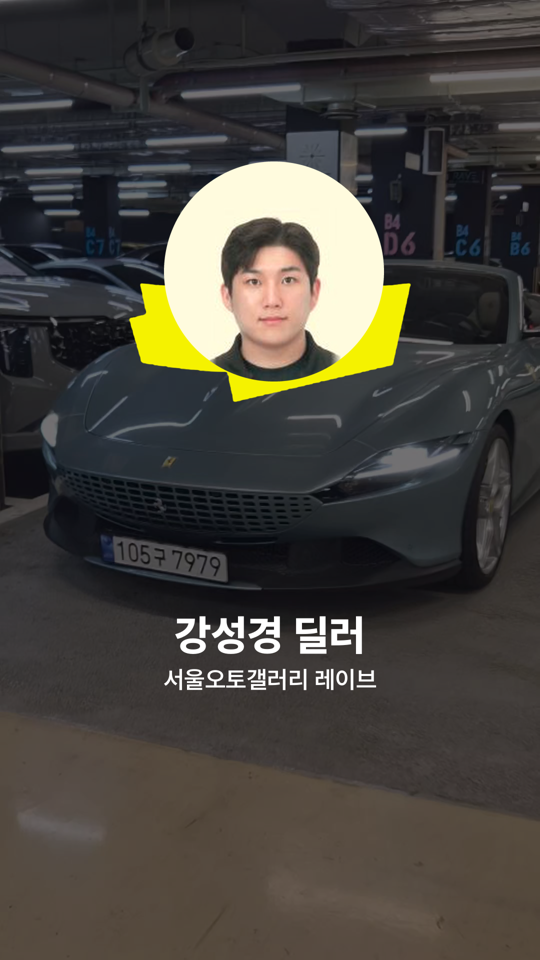
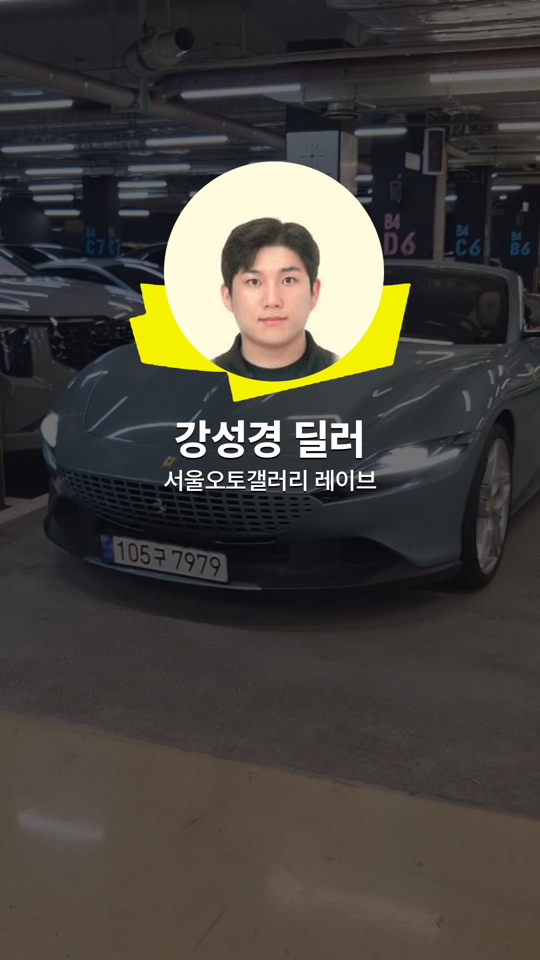
브러시 프레임 끝 화면: 이름·소속을 배지 바로 아래 한 묶음으로(번호판 피함)
Claude-Session: https://claude.ai/code/session_01AMh7xoXiuzDvjCLxYCuX6F

Changed region(s): [[0.2963, 0.625, 0.7111, 0.7188], [0.2963, 0.4375, 0.7111, 0.5312]]

diff --git a/scripts/shortform/brush_frame_portrait.py b/scripts/shortform/brush_frame_portrait.py
@@ -27,7 +27,9 @@ FONT = os.path.join(HERE, 'fonts')
 YEL, DISC, INK = (0xF5, 0xF2, 0x00), (0xED, 0xEF, 0xF2), (0x22, 0x22, 0x22)
 W, H, FPS = 1080, 1920, 30
 TOP = 300  # 배지 윗선. 원본 영상 번호판(로마 y 1080~1160)을 칠이 덮지 않는 자리 — 차가 바뀌면 번호판 위치를 보고 정함
-NAME_Y = 1220  # 이름 줄 윗선 — 번호판 아래(이름·소속도 번호판을 덮지 않음)
+NAME_Y = 1220  # 배지 바로 아래에 이름이 들어가지 않을 때만 쓰는 자리 — 번호판 아래
+PLATE_TOP = 1080  # 원본 영상 번호판 윗선(로마). 이름·소속 글자 아래 끝이 이 위 24px 안에 들어오면 배지 바로 아래에 붙임
+GAP_BADGE, GAP_LINE = 36, 22  # 배지 보이는 아래 끝 → 이름 글자 윗선, 이름 글자 아래 끝 → 소속 글자 윗선
 
 
 ORIG = os.path.join(REPO, 'public', 'assets', 'shortform', 'brush-frame-portrait', 'as24_0701_brush_frame_portrait.png')
@@ -128,6 +130,11 @@ def pop(t):  # 0→1.08→1
     return 1.08 * ease(t / 0.7) if t < 0.7 else 1.08 - 0.08 * ease((t - 0.7) / 0.3)
 
 
+@functools.lru_cache(maxsize=8)
+def _badge_bottom(photo, face):
+    return badge(photo, face=face).getbbox()[3]
+
+
 def card(photo, name, org, bg_img, t, face=0.86):
     f = bg_img.copy()
     f = Image.blend(f, Image.new('RGB', f.size, (0, 0, 0)), 0.55).convert('RGBA')
@@ -138,10 +145,19 @@ def card(photo, name, org, bg_img, t, face=0.86):
         dr = ImageDraw.Draw(f)
         f1 = ImageFont.truetype(os.path.join(FONT, 'Pretendard-ExtraBold.otf'), 84)
         f2 = ImageFont.truetype(os.path.join(FONT, 'Pretendard-SemiBold.otf'), 48)
-        y = max(TOP + b.height + 10, NAME_Y) + round(30 * (1 - k)); al = round(255 * k)
-        for txt, fnt, yy in ((name, f1, y), (org, f2, y + 110)):
-            tw = dr.textlength(txt, font=fnt)
-            dr.text(((W - tw) / 2, yy), txt, font=fnt, fill=(255, 255, 255, al))
+        # 글자 자리: 배지(움직임이 끝난 크기) 보이는 아래 끝 바로 밑에 이름·소속을 한 묶음으로 가운데 정렬. 번호판에 걸리면 번호판 아래로
+        bb = _badge_bottom(photo, face)
+        n_box, o_box = dr.textbbox((0, 0), name, font=f1), dr.textbbox((0, 0), org, font=f2)
+        y_name = TOP + bb + GAP_BADGE - n_box[1]
+        y_org = y_name + n_box[3] + GAP_LINE - o_box[1]
+        if y_org + o_box[3] > PLATE_TOP - 24:
+            y_name = NAME_Y - n_box[1]; y_org = y_name + n_box[3] + GAP_LINE - o_box[1]
+        dy = round(24 * (1 - k)); al = round(255 * k)
+        for txt, fnt, yy, box in ((name, f1, y_name, n_box), (org, f2, y_org, o_box)):
+            tw = box[2] - box[0]
+            x = (W - tw) / 2 - box[0]
+            dr.text((x, yy + dy + 3), txt, font=fnt, fill=(0, 0, 0, round(al * 0.45)))  # 차 위에서도 읽히게 옅은 그림자
+            dr.text((x, yy + dy), txt, font=fnt, fill=(255, 255, 255, al))
     return f.convert('RGB')
 
 

diff --git a/reports/work-roma-spider.md b/reports/work-roma-spider.md
@@ -261,3 +261,4 @@ r12는 **86점 / 100점**(r11 79점에서 +7)이다. 숫자 위치, ✓ 목록, 
 - 한계: 원본이 115px라 끝 화면(원 지름 440)에서 약 2.4배 키움 → 살짝 흐림. 큰 원본을 받으면 해결.
 
 ![실제 사진 배지](work-roma-spider/brush_frame_real_badge.png) ![끝 화면](work-roma-spider/brush_frame_real_card.png)
+- 글자 자리(사용자 「텍스트 밸런스 위치 잡아」): 이름이 배지에서 470px 떨어져 따로 놀던 것을, 배지 보이는 아래 끝 → 이름 글자 윗선 36px, 이름 → 소속 22px로 붙여 한 묶음으로 가운데 정렬. 글자가 번호판(윗선 1080) 위 24px 안에 들어오면 배지 바로 아래, 아니면 번호판 아래(1220)로. 차 위에서도 읽히게 옅은 그림자 3px.
